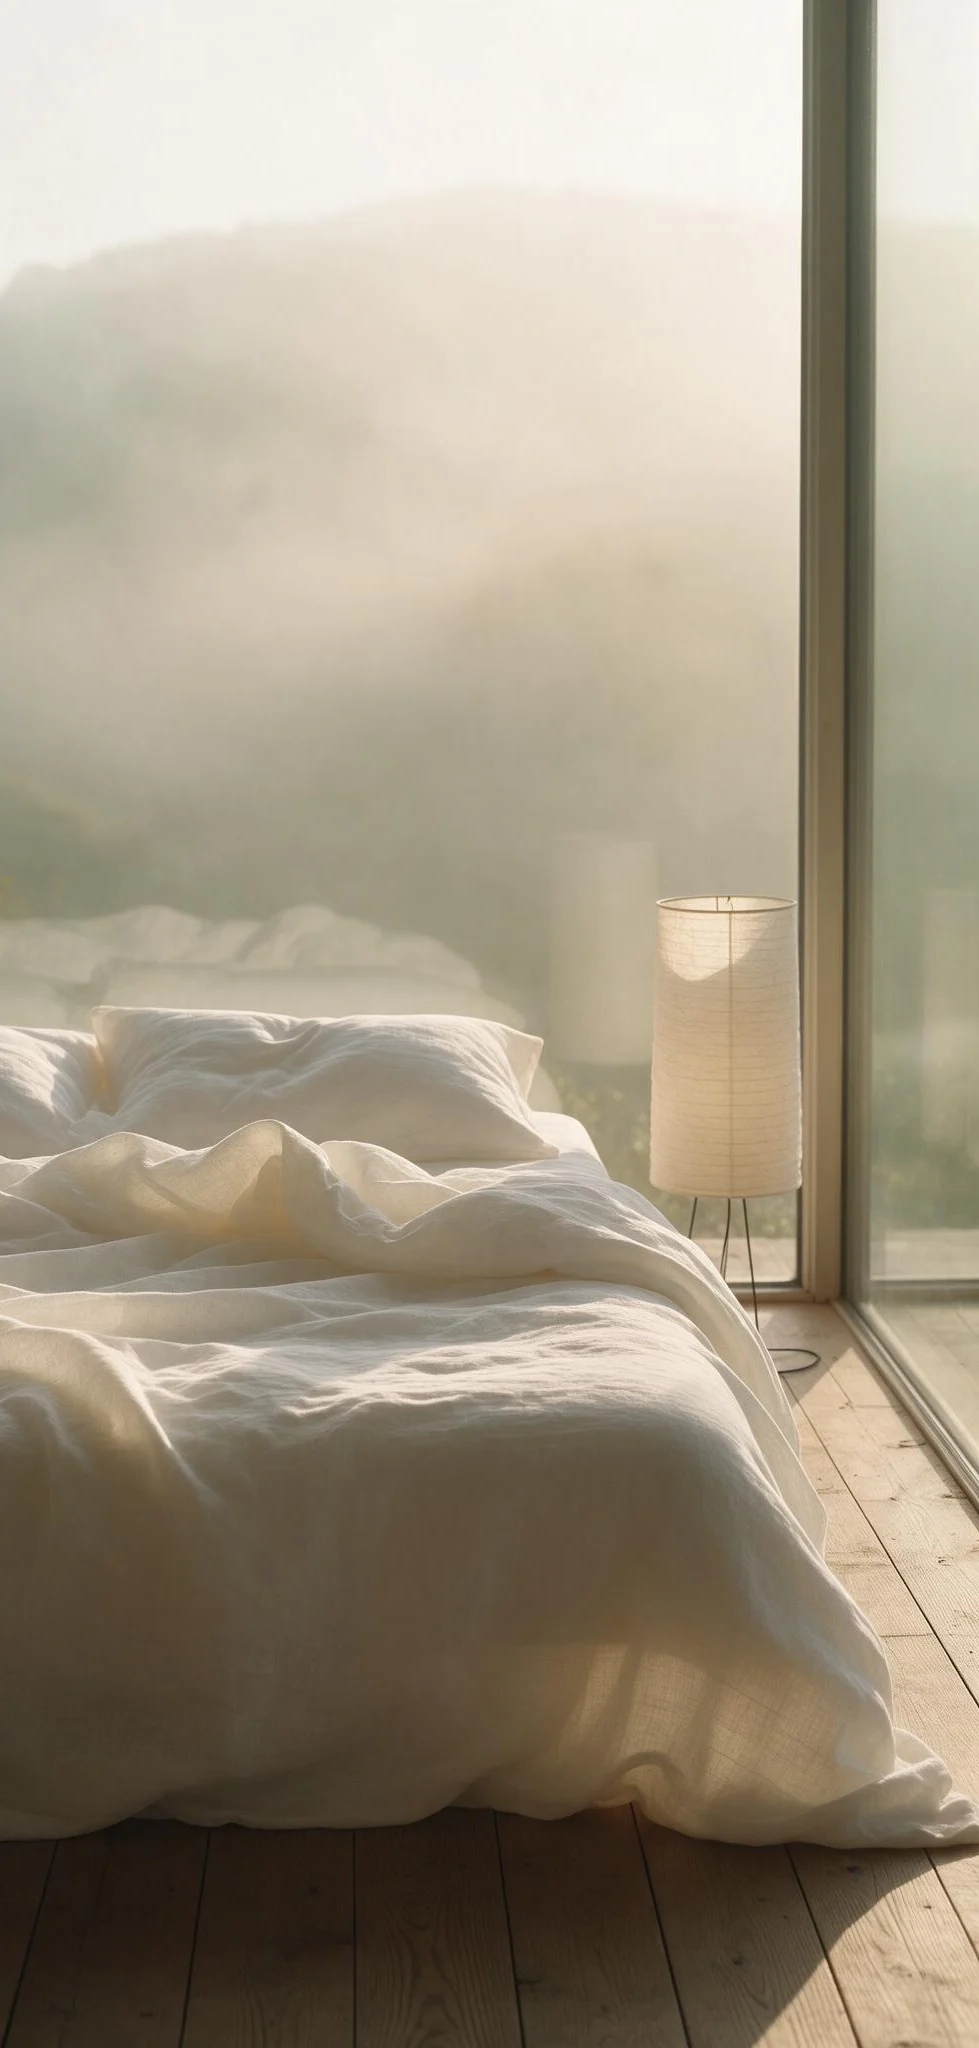
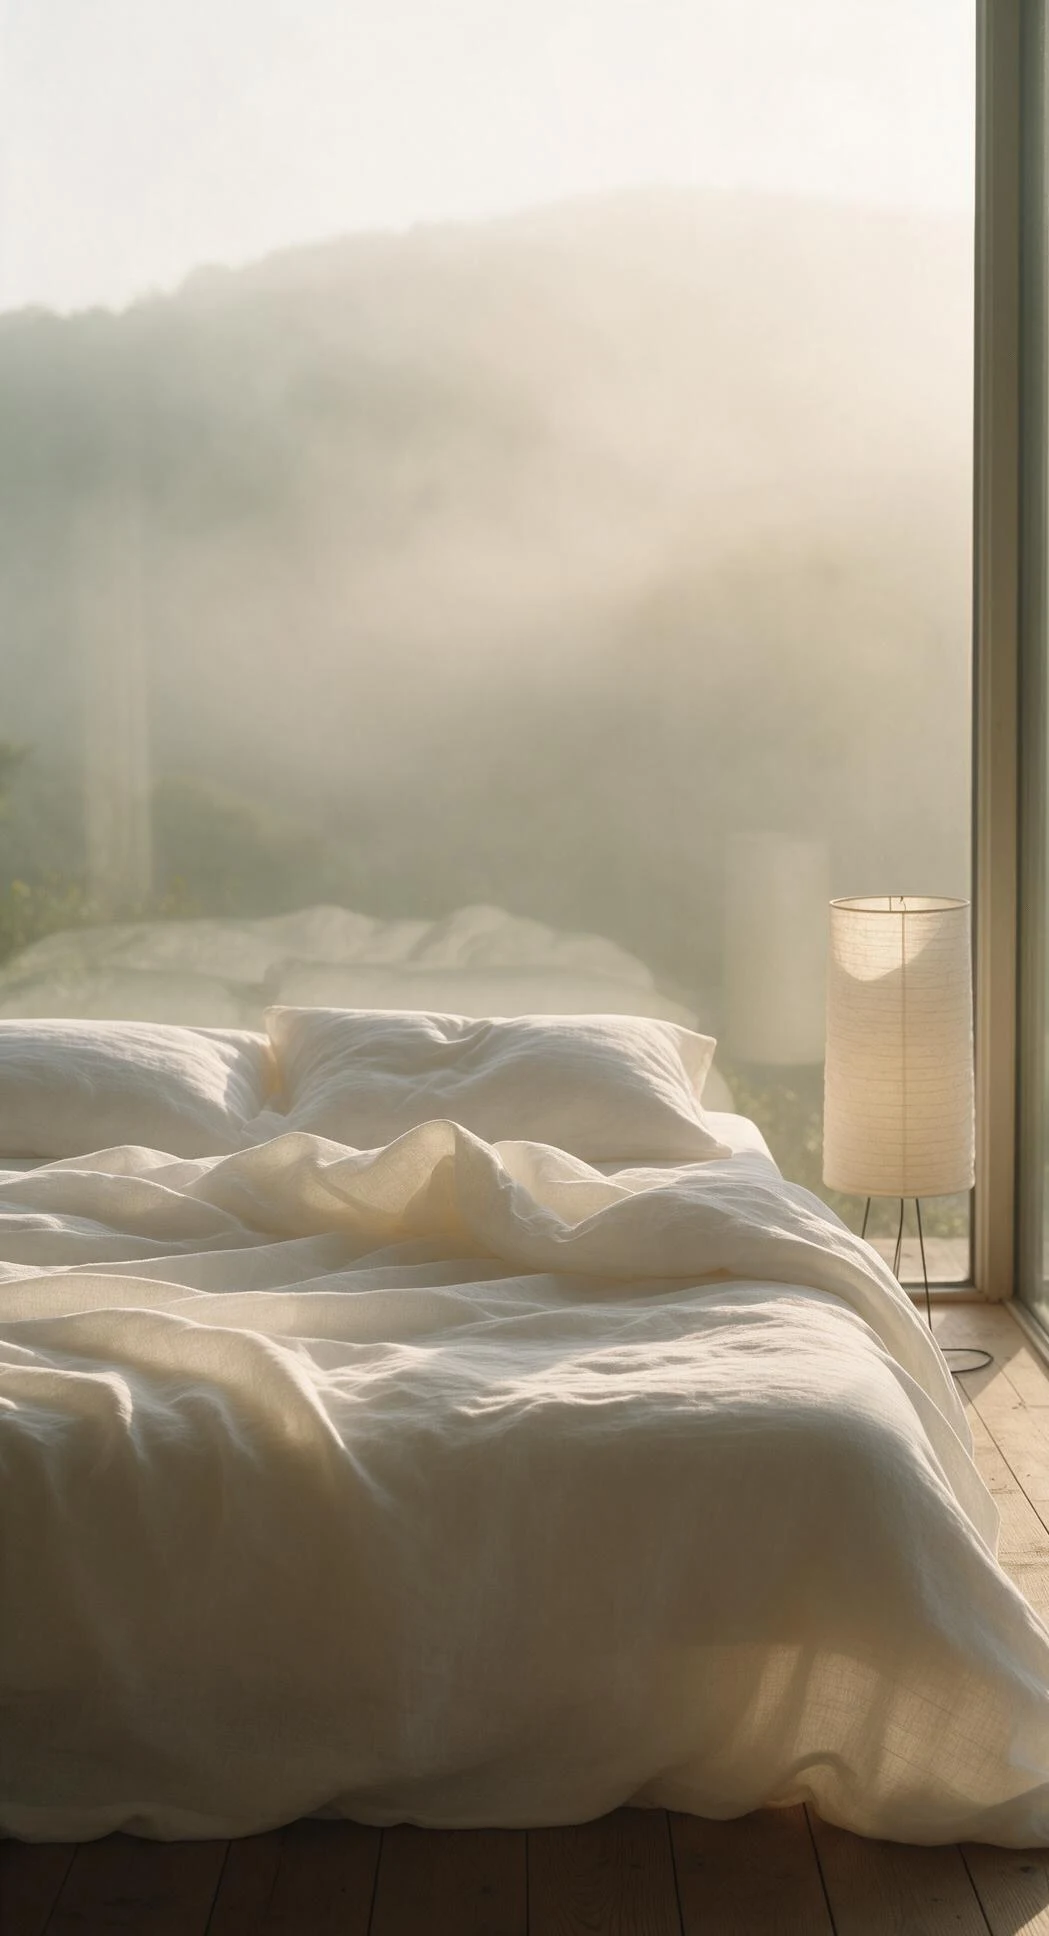
feat(home-hero): 移动端 hero 换新图并微调文字按键位置
- 更换移动端 hero 图（1049x1936，比例 0.542 贴合手机显示区，零裁切），原图备份 hero-mist-mobile-prev.webp
- 文字+按键上移 10px（pb 9svh+10px）
- Shop Beddings 按键单独再上移 10px（标题间距 28px→18px，仅移动端）

diff --git a/src/data/product-weights.ts b/src/data/product-weights.ts
@@ -1,6 +1,6 @@
 // Auto-generated by scripts/build-weights.js
 // DO NOT EDIT MANUALLY - 人工赋权改 src/data/weights-overrides.ts 后重跑本脚本
-// Generated at: 2026-10-27T14:50:21.215Z
+// Generated at: 2026-10-27T16:39:11.495Z
 
 export interface ProductWeight {
   /** 一级类目（同分破平用类目平均分） */
@@ -58,19 +58,19 @@ export const PRODUCT_WEIGHTS: Record<string, ProductWeight> = {
   "b0f62xrb55": {"type":"Pillows","score":18.2,"perf":18.2,"boost":0},
   "b0fnqrrv78": {"type":"Cushions","score":22.5,"perf":22.5,"boost":0},
   "b0g6m3f7cy": {"type":"Pillows","score":24,"perf":24,"boost":0},
-  "b0g6mptvfd": {"type":"Pillows","score":51.8,"perf":21.8,"boost":30},
+  "b0g6mptvfd": {"type":"Pillows","score":51.7,"perf":21.7,"boost":30},
   "mk-pc-cord-caramel": {"type":"Pillows","score":26.6,"perf":26.6,"boost":0},
   "mk-pc-cord-caramel-45": {"type":"Pillows","score":25.6,"perf":25.6,"boost":0},
   "mk-pc-cord-dustyrose": {"type":"Pillows","score":25.6,"perf":25.6,"boost":0},
-  "mk-pc-cord-dustyrose-45": {"type":"Pillows","score":26.1,"perf":26.1,"boost":0},
-  "mk-pc-cord-olive": {"type":"Pillows","score":26.1,"perf":26.1,"boost":0},
+  "mk-pc-cord-dustyrose-45": {"type":"Pillows","score":26,"perf":26,"boost":0},
+  "mk-pc-cord-olive": {"type":"Pillows","score":26,"perf":26,"boost":0},
   "mk-pc-cord-olive-45": {"type":"Pillows","score":26.3,"perf":26.3,"boost":0},
   "mk-pc-cord-dustyblue": {"type":"Pillows","score":26.4,"perf":26.4,"boost":0},
-  "mk-pc-cord-dustyblue-45": {"type":"Pillows","score":26.2,"perf":26.2,"boost":0},
+  "mk-pc-cord-dustyblue-45": {"type":"Pillows","score":26.1,"perf":26.1,"boost":0},
   "mk-pc-cord-charcoal": {"type":"Pillows","score":25.8,"perf":25.8,"boost":0},
   "mk-pc-cord-charcoal-45": {"type":"Pillows","score":26.3,"perf":26.3,"boost":0},
   "mk-pc-ctn-sage": {"type":"Pillows","score":26,"perf":26,"boost":0},
-  "mk-pc-ctn-sage-45": {"type":"Pillows","score":25.9,"perf":25.9,"boost":0},
+  "mk-pc-ctn-sage-45": {"type":"Pillows","score":25.8,"perf":25.8,"boost":0},
   "mk-pc-ctn-cream": {"type":"Pillows","score":26,"perf":26,"boost":0},
   "mk-pc-ctn-cream-45": {"type":"Pillows","score":26,"perf":26,"boost":0},
   "mk-pc-ctn-blush": {"type":"Pillows","score":26.1,"perf":26.1,"boost":0},
@@ -83,7 +83,7 @@ export const PRODUCT_WEIGHTS: Record<string, ProductWeight> = {
   "mk-cushion-cord-dustyrose": {"type":"Cushions","score":21.1,"perf":21.1,"boost":0},
   "mk-cushion-cord-olive": {"type":"Cushions","score":21.1,"perf":21.1,"boost":0},
   "mk-cushion-cord-dustyblue": {"type":"Cushions","score":21.1,"perf":21.1,"boost":0},
-  "mk-pc-boucle-white-45": {"type":"Pillows","score":28.6,"perf":28.6,"boost":0},
+  "mk-pc-boucle-white-45": {"type":"Pillows","score":28.5,"perf":28.5,"boost":0},
   "mk-pc-boucle-oatmeal-45": {"type":"Pillows","score":28.6,"perf":28.6,"boost":0},
   "mk-pc-boucle-dustyrose-45": {"type":"Pillows","score":28.4,"perf":28.4,"boost":0},
   "mk-pc-boucle-sage-45": {"type":"Pillows","score":28.1,"perf":28.1,"boost":0},
@@ -131,12 +131,12 @@ export const PRODUCT_WEIGHTS: Record<string, ProductWeight> = {
   "b0gxwm4n7j": {"type":"Pillows","score":22.5,"perf":22.5,"boost":0},
   "b0gd87zbn9": {"type":"Pillows","score":22.4,"perf":22.4,"boost":0},
   "b0g6lxsf4t": {"type":"Pillows","score":21.7,"perf":21.7,"boost":0},
-  "b0gd846fs2": {"type":"Pillows","score":23,"perf":23,"boost":0},
+  "b0gd846fs2": {"type":"Pillows","score":22.9,"perf":22.9,"boost":0},
   "b0bcjw18sp": {"type":"Cushions","score":21,"perf":21,"boost":0},
   "b0bcjrtf3x": {"type":"Cushions","score":21,"perf":21,"boost":0},
   "b0bcjv24jr": {"type":"Cushions","score":19,"perf":19,"boost":0},
   "b0bcjt2gfw": {"type":"Cushions","score":21,"perf":21,"boost":0},
-  "828008656438-c3": {"type":"Mats","score":23.7,"perf":23.7,"boost":0},
+  "828008656438-c3": {"type":"Mats","score":23.6,"perf":23.6,"boost":0},
   "828008656438-c2": {"type":"Mats","score":22.2,"perf":22.2,"boost":0},
   "952595759182": {"type":"Towels","score":19.2,"perf":19.2,"boost":0},
   "952595759182-c2": {"type":"Towels","score":20.5,"perf":20.5,"boost":0},
@@ -150,7 +150,7 @@ export const PRODUCT_WEIGHTS: Record<string, ProductWeight> = {
   "895014679429": {"type":"Mats","score":21.5,"perf":21.5,"boost":0},
   "1046667161713": {"type":"Mats","score":22.2,"perf":22.2,"boost":0},
   "1064068114006": {"type":"Mats","score":23,"perf":23,"boost":0},
-  "1064068114006-c2": {"type":"Mats","score":23.6,"perf":23.6,"boost":0},
+  "1064068114006-c2": {"type":"Mats","score":23.5,"perf":23.5,"boost":0},
   "1052755373494": {"type":"Mats","score":48.5,"perf":23.5,"boost":25},
   "1052755373494-c2": {"type":"Mats","score":23,"perf":23,"boost":0},
   "1046667161713-c2": {"type":"Mats","score":21.7,"perf":21.7,"boost":0},
@@ -163,7 +163,7 @@ export const PRODUCT_WEIGHTS: Record<string, ProductWeight> = {
   "745181807454-c2": {"type":"Mats","score":22.4,"perf":22.4,"boost":0},
   "996768645117": {"type":"Mats","score":21.7,"perf":21.7,"boost":0},
   "745181807454": {"type":"Mats","score":23.1,"perf":23.1,"boost":0},
-  "996768645117-c2": {"type":"Mats","score":23.9,"perf":23.9,"boost":0},
+  "996768645117-c2": {"type":"Mats","score":23.8,"perf":23.8,"boost":0},
   "996768645117-c3": {"type":"Mats","score":48.9,"perf":23.9,"boost":25},
   "595229918569-c3": {"type":"Mats","score":23.2,"perf":23.2,"boost":0},
   "745181807454-c4": {"type":"Mats","score":23.2,"perf":23.2,"boost":0},
@@ -174,14 +174,14 @@ export const PRODUCT_WEIGHTS: Record<string, ProductWeight> = {
   "969627065032-c24": {"type":"Blankets","score":23.8,"perf":23.8,"boost":0},
   "969627065032-c23": {"type":"Blankets","score":48.1,"perf":23.1,"boost":25},
   "969627065032-c22": {"type":"Blankets","score":24.6,"perf":24.6,"boost":0},
-  "969627065032-c21": {"type":"Blankets","score":24.7,"perf":24.7,"boost":0},
+  "969627065032-c21": {"type":"Blankets","score":24.6,"perf":24.6,"boost":0},
   "969627065032-c25": {"type":"Blankets","score":23.9,"perf":23.9,"boost":0},
   "969627065032-c40": {"type":"Blankets","score":49,"perf":24,"boost":25},
   "969627065032-c39": {"type":"Blankets","score":24,"perf":24,"boost":0},
-  "969627065032-c38": {"type":"Blankets","score":23.2,"perf":23.2,"boost":0},
+  "969627065032-c38": {"type":"Blankets","score":23.1,"perf":23.1,"boost":0},
   "969627065032-c37": {"type":"Blankets","score":24.5,"perf":24.5,"boost":0},
   "969627065032-c36": {"type":"Blankets","score":23.2,"perf":23.2,"boost":0},
-  "969627065032-c35": {"type":"Blankets","score":24,"perf":24,"boost":0},
+  "969627065032-c35": {"type":"Blankets","score":23.9,"perf":23.9,"boost":0},
   "969627065032-c34": {"type":"Blankets","score":23.7,"perf":23.7,"boost":0},
   "969627065032-c32": {"type":"Blankets","score":49,"perf":24,"boost":25},
   "969627065032-c31": {"type":"Blankets","score":24,"perf":24,"boost":0},
@@ -201,14 +201,14 @@ export const PRODUCT_WEIGHTS: Record<string, ProductWeight> = {
   "bedset4-beige-king": {"type":"Bedding","score":14,"perf":14,"boost":0},
   "bedset4-beige-queen": {"type":"Bedding","score":41,"perf":14,"boost":27},
   "bedset4-beige-twin": {"type":"Bedding","score":14,"perf":14,"boost":0},
-  "duvset-gray-king": {"type":"Bedding","score":24.7,"perf":24.7,"boost":0},
+  "duvset-gray-king": {"type":"Bedding","score":24.6,"perf":24.6,"boost":0},
   "duvset-gray-queen": {"type":"Bedding","score":56,"perf":26,"boost":30},
   "duvset-gray-full": {"type":"Bedding","score":24.6,"perf":24.6,"boost":0},
   "duvset-gray-twin": {"type":"Bedding","score":23,"perf":23,"boost":0},
   "duvset-pink-king": {"type":"Bedding","score":26.6,"perf":26.6,"boost":0},
-  "duvset-pink-queen": {"type":"Bedding","score":26,"perf":26,"boost":0},
+  "duvset-pink-queen": {"type":"Bedding","score":25.9,"perf":25.9,"boost":0},
   "duvset-pink-full": {"type":"Bedding","score":25.2,"perf":25.2,"boost":0},
-  "duvset-pink-twin": {"type":"Bedding","score":26,"perf":26,"boost":0},
+  "duvset-pink-twin": {"type":"Bedding","score":25.9,"perf":25.9,"boost":0},
   "duvset-beige-king": {"type":"Bedding","score":23.2,"perf":23.2,"boost":0},
   "duvset-beige-queen": {"type":"Bedding","score":55.1,"perf":25.1,"boost":30},
   "duvset-beige-full": {"type":"Bedding","score":52.9,"perf":25.9,"boost":27},
@@ -229,14 +229,14 @@ export const PRODUCT_WEIGHTS: Record<string, ProductWeight> = {
   "bedset4-tan-full": {"type":"Bedding","score":23.3,"perf":23.3,"boost":0},
   "bedset4-tan-queen": {"type":"Bedding","score":26.1,"perf":26.1,"boost":0},
   "bedset4-tan-king": {"type":"Bedding","score":24,"perf":24,"boost":0},
-  "bedset4-sage-twin": {"type":"Bedding","score":24.9,"perf":24.9,"boost":0},
+  "bedset4-sage-twin": {"type":"Bedding","score":24.8,"perf":24.8,"boost":0},
   "bedset4-sage-full": {"type":"Bedding","score":23.4,"perf":23.4,"boost":0},
   "bedset4-sage-queen": {"type":"Bedding","score":55.2,"perf":25.2,"boost":30},
   "bedset4-sage-king": {"type":"Bedding","score":24.7,"perf":24.7,"boost":0},
   "bedset4-mauve-twin": {"type":"Bedding","score":23.3,"perf":23.3,"boost":0},
   "bedset4-mauve-full": {"type":"Bedding","score":23.9,"perf":23.9,"boost":0},
   "bedset4-mauve-queen": {"type":"Bedding","score":26.8,"perf":26.8,"boost":0},
-  "bedset4-mauve-king": {"type":"Bedding","score":23.4,"perf":23.4,"boost":0},
+  "bedset4-mauve-king": {"type":"Bedding","score":23.3,"perf":23.3,"boost":0},
   "bedset4-moss-twin": {"type":"Bedding","score":23.3,"perf":23.3,"boost":0},
   "bedset4-moss-full": {"type":"Bedding","score":24.1,"perf":24.1,"boost":0},
   "bedset4-moss-queen": {"type":"Bedding","score":54.9,"perf":24.9,"boost":30},
@@ -245,16 +245,16 @@ export const PRODUCT_WEIGHTS: Record<string, ProductWeight> = {
   "bedset4-coffee-full": {"type":"Bedding","score":24,"perf":24,"boost":0},
   "bedset4-coffee-queen": {"type":"Bedding","score":53.4,"perf":23.4,"boost":30},
   "bedset4-coffee-king": {"type":"Bedding","score":26.9,"perf":26.9,"boost":0},
-  "bedset4-blue-twin": {"type":"Bedding","score":26.9,"perf":26.9,"boost":0},
-  "bedset4-blue-full": {"type":"Bedding","score":24.9,"perf":24.9,"boost":0},
-  "bedset4-blue-queen": {"type":"Bedding","score":53.4,"perf":23.4,"boost":30},
+  "bedset4-blue-twin": {"type":"Bedding","score":26.8,"perf":26.8,"boost":0},
+  "bedset4-blue-full": {"type":"Bedding","score":24.8,"perf":24.8,"boost":0},
+  "bedset4-blue-queen": {"type":"Bedding","score":53.3,"perf":23.3,"boost":30},
   "bedset4-blue-king": {"type":"Bedding","score":24.8,"perf":24.8,"boost":0},
   "bedset4-plaid-twin": {"type":"Bedding","score":25.4,"perf":25.4,"boost":0},
   "bedset4-plaid-full": {"type":"Bedding","score":23.3,"perf":23.3,"boost":0},
   "bedset4-plaid-queen": {"type":"Bedding","score":54,"perf":24,"boost":30},
   "bedset4-plaid-king": {"type":"Bedding","score":53.3,"perf":23.3,"boost":30},
   "linen3-sage-twin": {"type":"Bedding","score":57.1,"perf":27.1,"boost":30},
-  "linen3-sage-full": {"type":"Bedding","score":26.5,"perf":26.5,"boost":0},
+  "linen3-sage-full": {"type":"Bedding","score":26.4,"perf":26.4,"boost":0},
   "linen3-sage-queen": {"type":"Bedding","score":55.7,"perf":25.7,"boost":30},
   "linen3-sage-king": {"type":"Bedding","score":26.3,"perf":26.3,"boost":0},
   "linen3-charcoal-twin": {"type":"Bedding","score":26.5,"perf":26.5,"boost":0},
@@ -279,7 +279,7 @@ export const PRODUCT_WEIGHTS: Record<string, ProductWeight> = {
   "899672152256-c33": {"type":"Decor","score":27.2,"perf":27.2,"boost":0},
   "899672152256-c42": {"type":"Decor","score":27.5,"perf":27.5,"boost":0},
   "899672152256-c52": {"type":"Decor","score":26.6,"perf":26.6,"boost":0},
-  "899672152256-c61": {"type":"Decor","score":27.5,"perf":27.5,"boost":0},
+  "899672152256-c61": {"type":"Decor","score":27.4,"perf":27.4,"boost":0},
   "899672152256-c70": {"type":"Decor","score":26,"perf":26,"boost":0},
   "899672152256-c78": {"type":"Decor","score":25.9,"perf":25.9,"boost":0},
   "899672152256-c85": {"type":"Decor","score":26,"perf":26,"boost":0},
@@ -292,13 +292,13 @@ export const PRODUCT_WEIGHTS: Record<string, ProductWeight> = {
   "743606980882-c61": {"type":"Decor","score":25.9,"perf":25.9,"boost":0},
   "743606980882-c71": {"type":"Decor","score":26,"perf":26,"boost":0},
   "743606980882-c80": {"type":"Decor","score":26.6,"perf":26.6,"boost":0},
-  "743606980882-c89": {"type":"Decor","score":26,"perf":26,"boost":0},
+  "743606980882-c89": {"type":"Decor","score":25.9,"perf":25.9,"boost":0},
   "663341114084-c2": {"type":"Decor","score":27.3,"perf":27.3,"boost":0},
   "663341114084-c3": {"type":"Decor","score":26,"perf":26,"boost":0},
   "807393887857-c2": {"type":"Decor","score":27.4,"perf":27.4,"boost":0},
   "807393887857-c3": {"type":"Decor","score":27.3,"perf":27.3,"boost":0},
   "807393887857-c4": {"type":"Decor","score":25.9,"perf":25.9,"boost":0},
-  "807393887857-c5": {"type":"Decor","score":27.5,"perf":27.5,"boost":0},
+  "807393887857-c5": {"type":"Decor","score":27.4,"perf":27.4,"boost":0},
   "807393887857-c6": {"type":"Decor","score":26,"perf":26,"boost":0},
   "1052742241013-c12": {"type":"Mats","score":26.5,"perf":26.5,"boost":0},
   "1052742241013-c11": {"type":"Mats","score":25,"perf":25,"boost":0},
@@ -325,7 +325,7 @@ export const PRODUCT_WEIGHTS: Record<string, ProductWeight> = {
   "duvset-beanred-twin": {"type":"Bedding","score":23.8,"perf":23.8,"boost":0},
   "duvset-beanred-full": {"type":"Bedding","score":23,"perf":23,"boost":0},
   "duvset-beanred-queen": {"type":"Bedding","score":22.9,"perf":22.9,"boost":0},
-  "duvset-beanred-king": {"type":"Bedding","score":24.3,"perf":24.3,"boost":0},
+  "duvset-beanred-king": {"type":"Bedding","score":24.2,"perf":24.2,"boost":0},
   "percale-coconut-twin": {"type":"Bedding","score":14.8,"perf":14.8,"boost":0},
   "percale-coconut-full": {"type":"Bedding","score":14.8,"perf":14.8,"boost":0},
   "percale-coconut-queen": {"type":"Bedding","score":16.3,"perf":16.3,"boost":0},

diff --git a/src/components/v2/V2Hero.tsx b/src/components/v2/V2Hero.tsx
@@ -33,12 +33,12 @@ export default function V2Hero() {
         {/* 渐变暗罩：2026-10-27 用户定全端去除（桌面配深炭色导航；移动端文字压在薄雾/床品上直读） */}
       </div>
 
-      {/* Text content：移动端 justify-center + pb-[9svh]；
+      {/* Text content：移动端 justify-center + pb-[calc(9svh+10px)]；
           桌面端 2026-10-27 用户定：锚定视口左侧 lg:px-[7vw]（废弃 max-w-1400 居中 + min() 抵消方案——
           不同分辨率下位置乱跳，窄屏甚至反向右移）；字号流式 clamp 随分辨率缩放；底部 justify-end + 上移 70px */}
-      <div className="relative z-10 h-full max-w-[1400px] mx-auto px-6 flex flex-col justify-center pb-[9svh] lg:max-w-none lg:px-[7vw] lg:-translate-y-[70px] lg:justify-end lg:pb-[8vh]">
+      <div className="relative z-10 h-full max-w-[1400px] mx-auto px-6 flex flex-col justify-center pb-[calc(9svh+10px)] lg:max-w-none lg:px-[7vw] lg:-translate-y-[70px] lg:justify-end lg:pb-[8vh]">
         <h1
-          className="text-2xl sm:text-3xl lg:text-[clamp(2rem,2.6vw,3rem)] lg:leading-[1.05] font-extrabold tracking-tight leading-[1.05] text-cream max-w-3xl mb-7 animate-fade-in-up"
+          className="text-2xl sm:text-3xl lg:text-[clamp(2rem,2.6vw,3rem)] lg:leading-[1.05] font-extrabold tracking-tight leading-[1.05] text-cream max-w-3xl mb-[18px] lg:mb-7 animate-fade-in-up"
         >
           Comfort, Woven Into<br />Every Day
         </h1>

diff --git a/src/data/shopify-map.ts b/src/data/shopify-map.ts
@@ -1,6 +1,6 @@
 // Auto-generated by scripts/build-shopify-map.js
 // DO NOT EDIT MANUALLY - Run 'node scripts/build-shopify-map.js' to update
-// Generated at: 2026-10-27T14:50:20.481Z
+// Generated at: 2026-10-27T16:39:10.648Z
 
 export interface ShopifyProductEntry {
   variantId: string;
